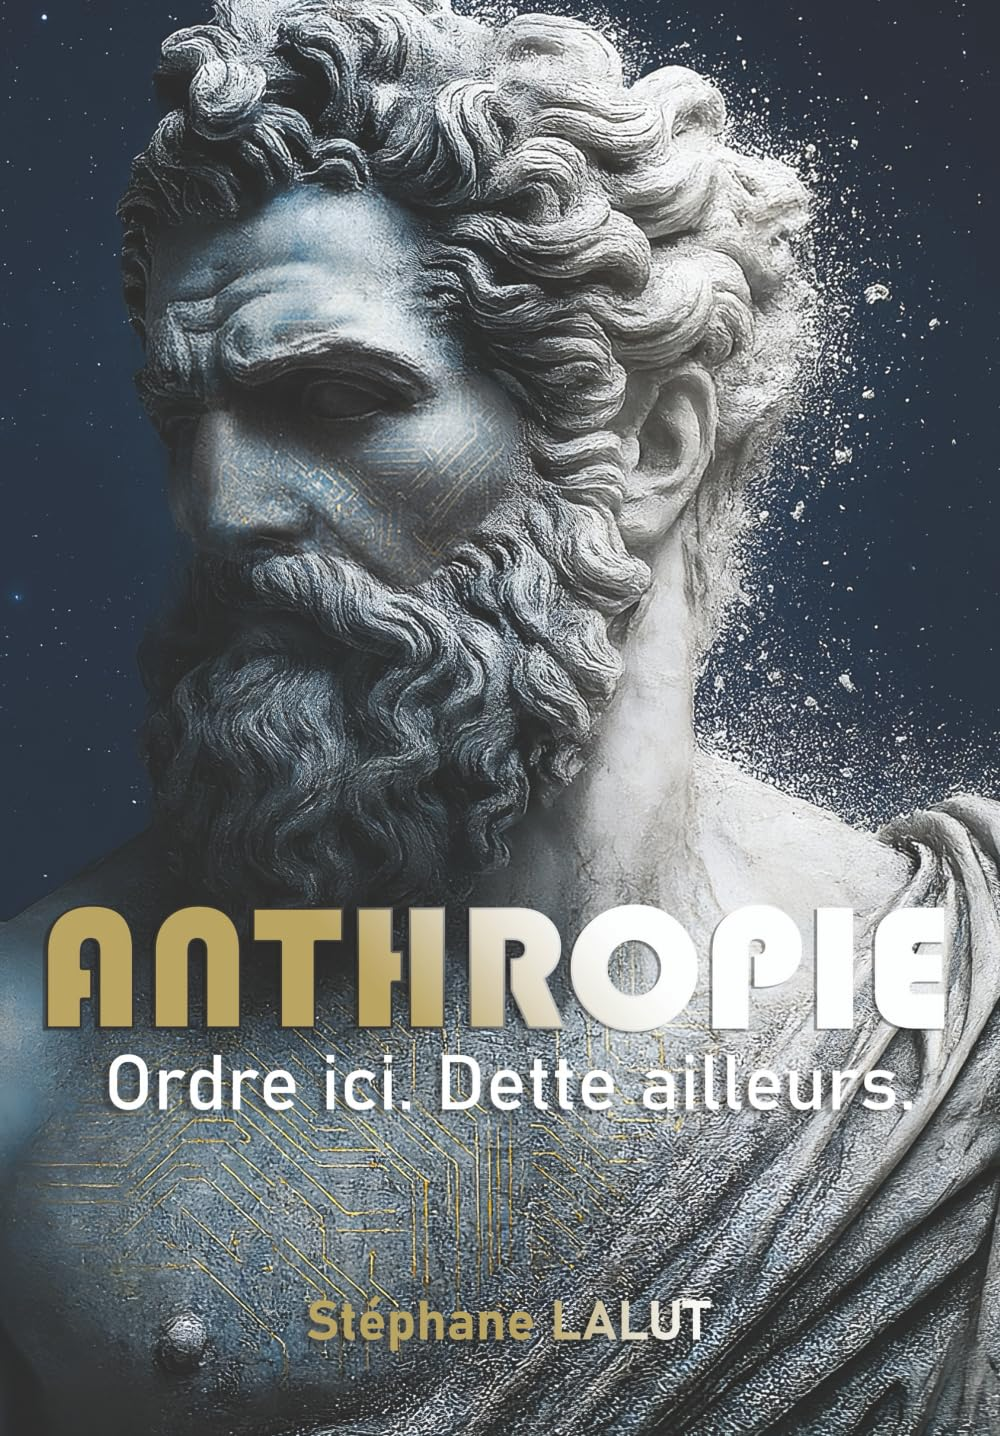
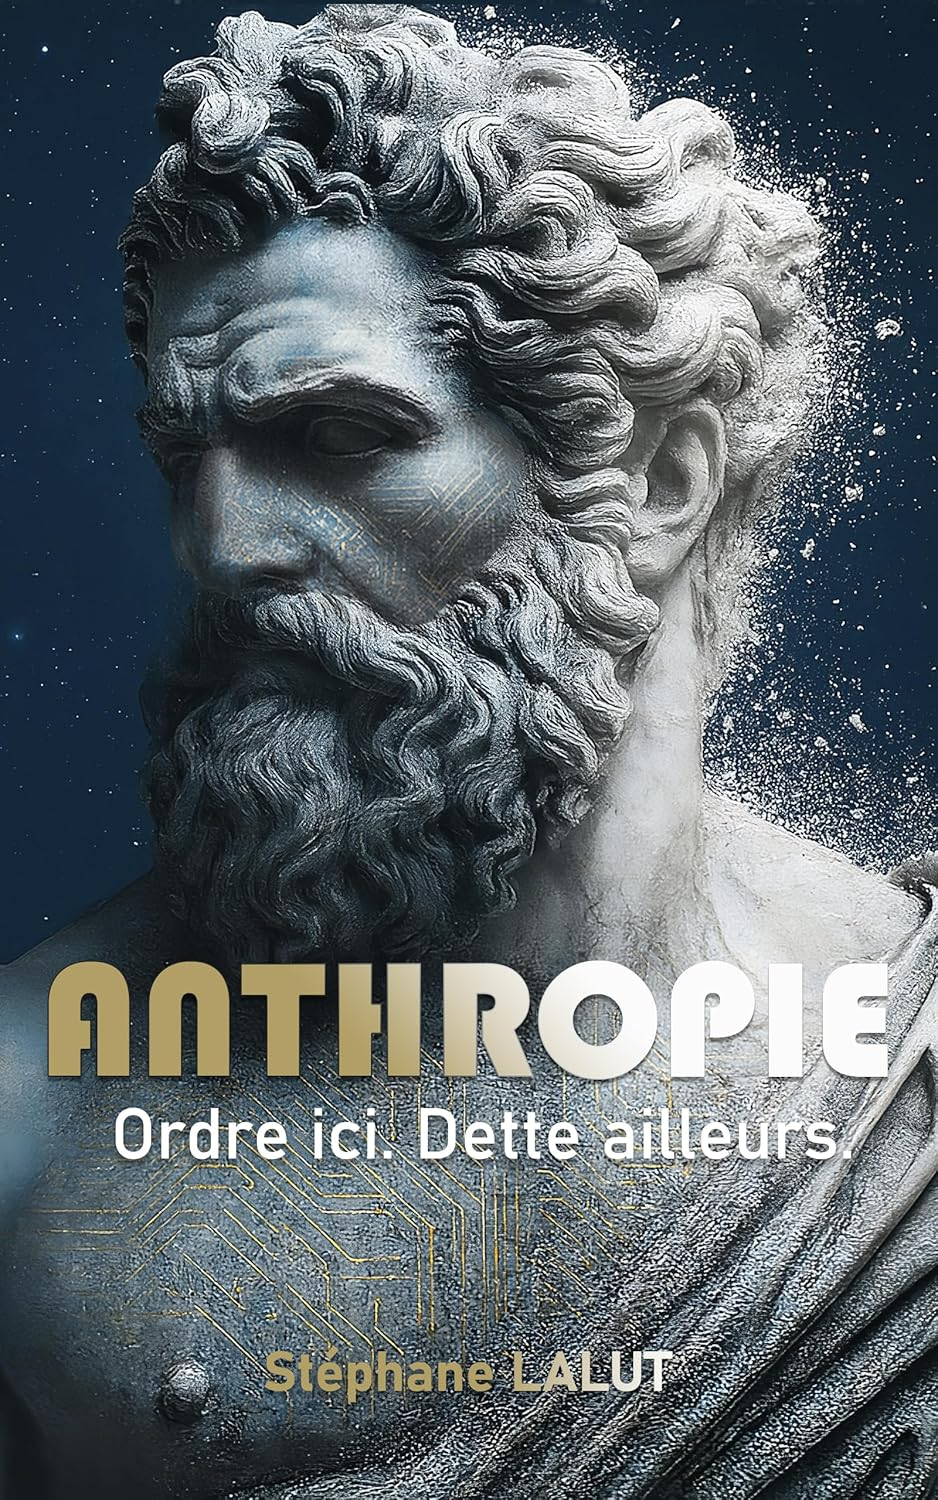
Patch v3.1.2 — marginalia pur, vraie couverture, listes et tableaux éditoriaux
- Annulation de la translation sur 'déplacent' (revient au marginalia simple : trait bleu nuit qui se trace sous le mot, sans déplacement horizontal)
- Téléchargement de la vraie couverture ANTHROPIE depuis Amazon avec User-Agent navigateur, optimisation JPG, self-hébergement dans static/images/livres/
- Listes éditoriales : marqueurs alignés, gris discret, espacement respiré
- Tableaux éditoriaux : première colonne en petites capitales bleu nuit, en-têtes en eyebrow uppercase, filets horizontaux

Aucun fichier content/ touché, balises SEO et schemas intacts.

diff --git a/assets/scss/_typography.scss b/assets/scss/_typography.scss
@@ -164,57 +164,99 @@ pre {
   min-width: 11rem;
 }
 
-// Listes dans le corps des articles — alignement éditorial
+// Listes éditoriales — alignement et espacement
+article.article ol,
+article.article ul,
 .article__body ol,
 .article__body ul {
-  padding-left: 1.4em;
-  margin: 1.2em 0;
+  padding-left: 1.6em;
+  margin: 1.4em 0 1.4em 0.4em;
 }
+article.article li,
 .article__body li {
-  margin-bottom: 0.6em;
-  padding-left: 0.4em;
+  margin-bottom: 0.8em;
+  padding-left: 0.5em;
   line-height: var(--lh-body);
+  color: var(--color-text-body);
 }
+article.article li::marker,
 .article__body li::marker {
   color: var(--color-text-faint);
   font-variant-numeric: tabular-nums;
+  font-weight: 400;
 }
+article.article li > p,
 .article__body li > p {
-  margin: 0 0 0.4em;
+  margin: 0.4em 0;
+}
+article.article li > p:first-child,
+.article__body li > p:first-child {
+  margin-top: 0;
+}
+article.article li > p:last-child,
+.article__body li > p:last-child {
+  margin-bottom: 0;
+}
+article.article ol li,
+.article__body ol li {
+  font-weight: 400;
+}
+article.article ol li strong,
+.article__body ol li strong {
+  font-weight: 500;
 }
 
-// Tableaux éditoriaux — style revue savante
+// Tableaux éditoriaux — style revue savante, colonnes proportionnées
+article.article table,
 .article__body table {
   width: 100%;
   border-collapse: collapse;
-  margin: 2em 0;
+  margin: 2.4em 0;
   font-size: var(--fs-small);
   font-family: var(--font-serif);
+  table-layout: auto;
 }
+article.article thead th,
 .article__body thead th {
   text-align: left;
   font-family: var(--font-sans);
   font-size: var(--fs-tiny);
-  letter-spacing: 0.08em;
+  letter-spacing: 0.1em;
   text-transform: uppercase;
   color: var(--color-text-faint);
   font-weight: 500;
-  padding: 12px 16px 12px 0;
+  padding: 14px 20px 14px 0;
   border-bottom: 0.5px solid var(--color-rule-strong);
+  vertical-align: bottom;
+  white-space: nowrap;
 }
+article.article tbody td,
 .article__body tbody td {
-  padding: 14px 16px 14px 0;
+  padding: 16px 20px 16px 0;
   border-bottom: 0.5px solid var(--color-rule-soft);
   vertical-align: top;
-  line-height: 1.5;
+  line-height: 1.55;
   color: var(--color-text-body);
+  font-weight: 400;
 }
+article.article tbody tr:last-child td,
 .article__body tbody tr:last-child td {
   border-bottom: 0.5px solid var(--color-rule-strong);
 }
+article.article tbody td:first-child,
 .article__body tbody td:first-child {
+  font-family: var(--font-sans);
+  font-size: var(--fs-tiny);
+  letter-spacing: 0.06em;
+  text-transform: uppercase;
+  color: var(--color-accent);
   font-weight: 500;
-  color: var(--color-text);
   white-space: nowrap;
-  padding-right: 24px;
+  padding-right: 32px;
+  vertical-align: top;
+  padding-top: 18px;
+}
+article.article tbody td:last-child,
+.article__body tbody td:last-child {
+  padding-right: 0;
 }

diff --git a/assets/scss/_hero.scss b/assets/scss/_hero.scss
@@ -52,23 +52,35 @@
   color: var(--color-text);
 }
 
+// Effet marginalia : trait bleu nuit qui se trace sous "déplacent".
+// Le mot ne bouge pas. Une seule animation, jamais répétée.
 .hero__accent-wrap {
-  position: relative; display: inline-block;
-  transform: translateX(0);
-  animation: hero-word-translate 700ms cubic-bezier(0.65,0,0.35,1) 800ms forwards;
+  position: relative;
+  display: inline-block;
 }
-.hero__accent { font-style: italic; color: var(--color-accent); }
+.hero__accent {
+  font-style: italic;
+  color: var(--color-accent);
+}
 .hero__accent-rule {
-  position: absolute; left: 0; bottom: -2px;
-  height: 2px; width: 0; background: var(--color-accent);
-  animation: hero-rule-trace 700ms cubic-bezier(0.65,0,0.35,1) 800ms forwards;
+  position: absolute;
+  left: 0;
+  bottom: -2px;
+  height: 2px;
+  width: 0;
+  background: var(--color-accent);
+  animation: hero-rule-trace 700ms cubic-bezier(0.65, 0, 0.35, 1) 800ms forwards;
 }
 
-@keyframes hero-word-translate { to { transform: translateX(12px); } }
-@keyframes hero-rule-trace { to { width: 100%; } }
+@keyframes hero-rule-trace {
+  to { width: 100%; }
+}
+
 @media (prefers-reduced-motion: reduce) {
-  .hero__accent-wrap { animation: none; transform: translateX(12px); }
-  .hero__accent-rule { animation: none; width: 100%; }
+  .hero__accent-rule {
+    animation: none;
+    width: 100%;
+  }
 }
 
 .hero__lede {
